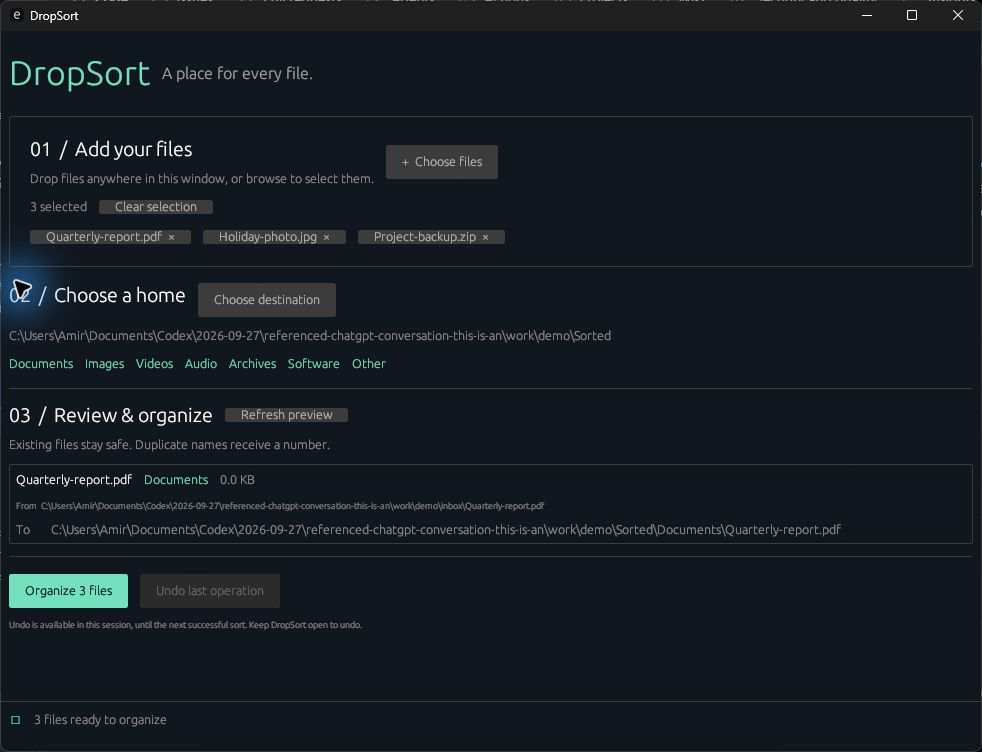
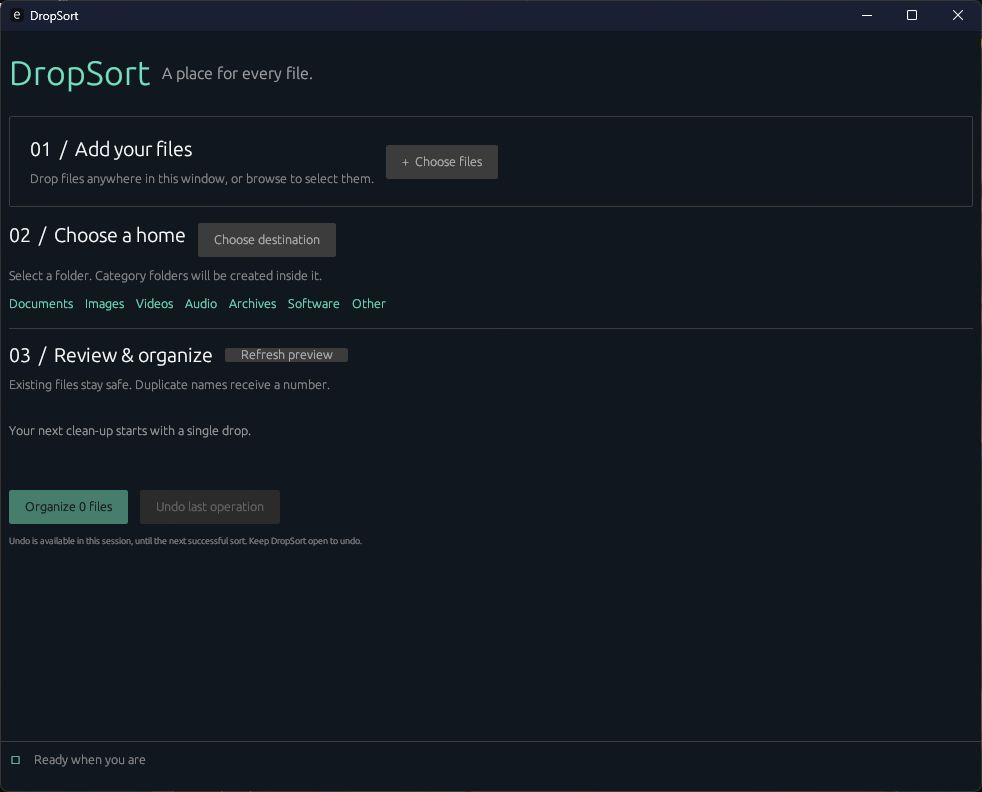
Replace screenshot with cursor-free capture and record passing CI

diff --git a/docs/VALIDATION.md b/docs/VALIDATION.md
@@ -17,8 +17,8 @@ Verified locally on Windows x64 with Rust 1.98.1 and the `x86_64-pc-windows-gnu`
 
 The automated suite covers all seven categories, case-insensitive extensions, batch duplicate names, repeated selections, non-file rejection, already-sorted files, Unicode names, stale destination conflicts, partial batches, edited files, recreated originals, locked source files, empty files, and retrying Undo after a missing original parent is recreated.
 
-`screenshot.png` is a real capture of the running application using generated demonstration files. The screenshot is from the GUI smoke test; the final build additionally enables accessibility support and validates the original parent folder before Undo.
+`screenshot.png` is a real, cursor-free capture of the final application home screen. The final build enables accessibility support and validates the original parent folder before Undo.
 
 Not manually exercised: Explorer drag-and-drop gestures, physical cross-drive moves, removable/network drives, power-loss recovery, and Windows versions other than the local test machine. The app uses eframe's native dropped-file events. Cross-drive transfers use Windows copy/delete semantics and are not atomic. Undo history is intentionally limited to the current session.
 
-GitHub Actions is configured to independently run formatting, linting, tests, and a release build on Windows with the MSVC toolchain. Its status should be checked on the repository rather than inferred from this local report.
+[Windows CI run 36319153063](https://github.com/Amirnemati13/DropSort/actions/runs/36319153063) independently passed formatting, linting, tests, release build, and artifact upload with the MSVC toolchain. This result was verified on September 28, 2026.
